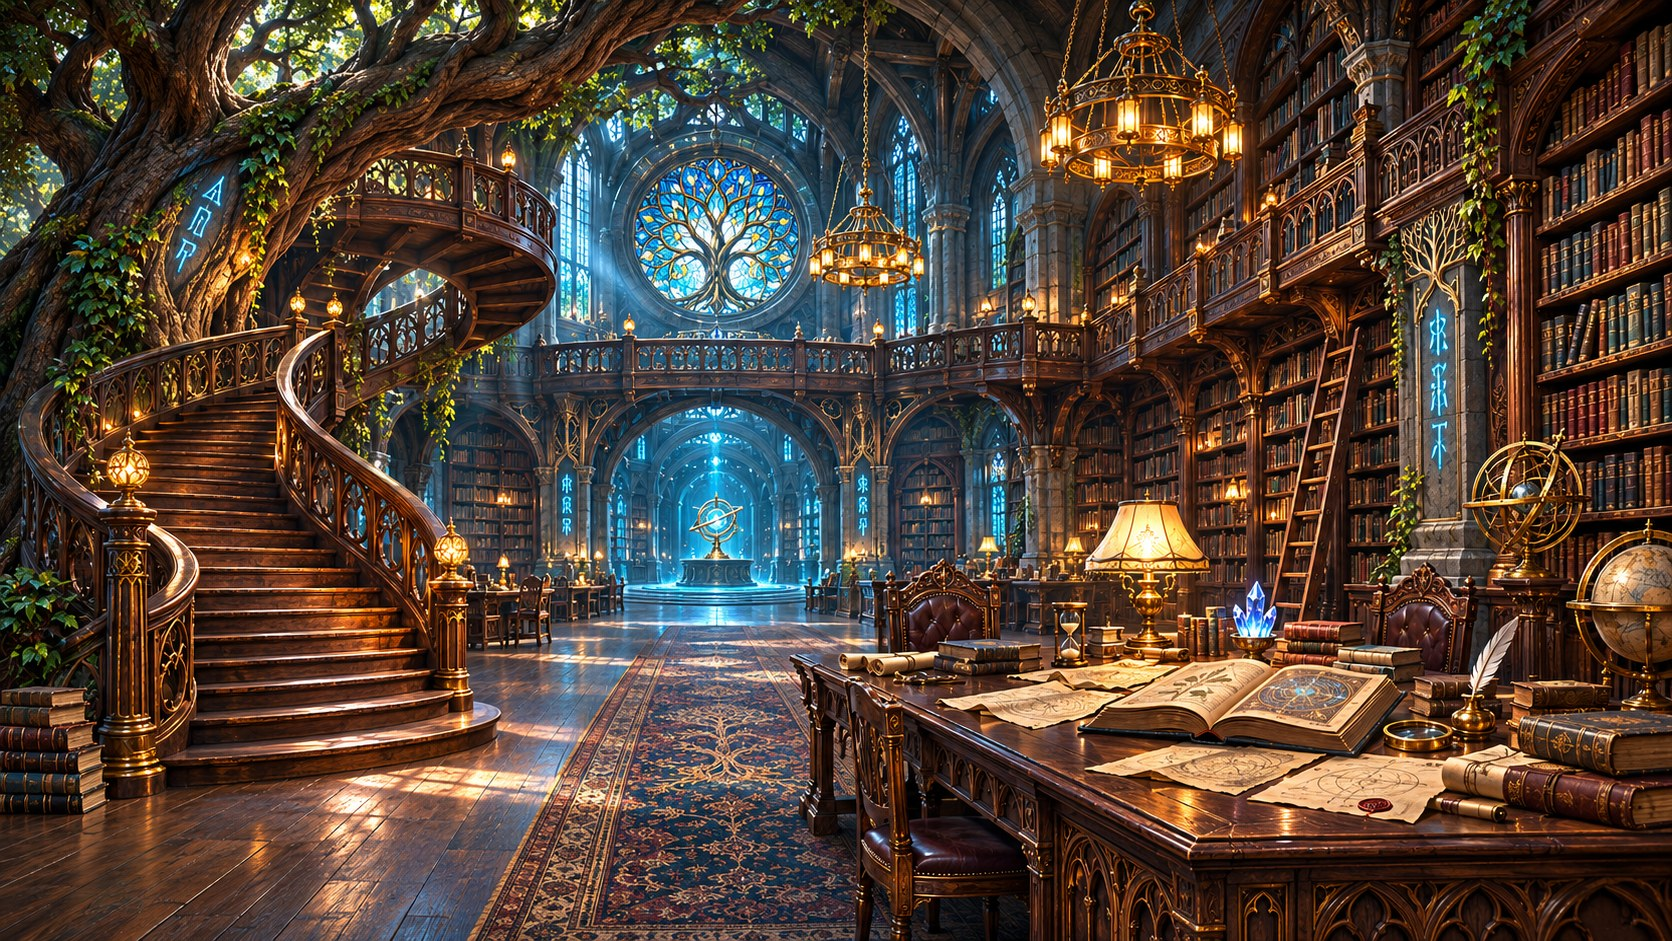
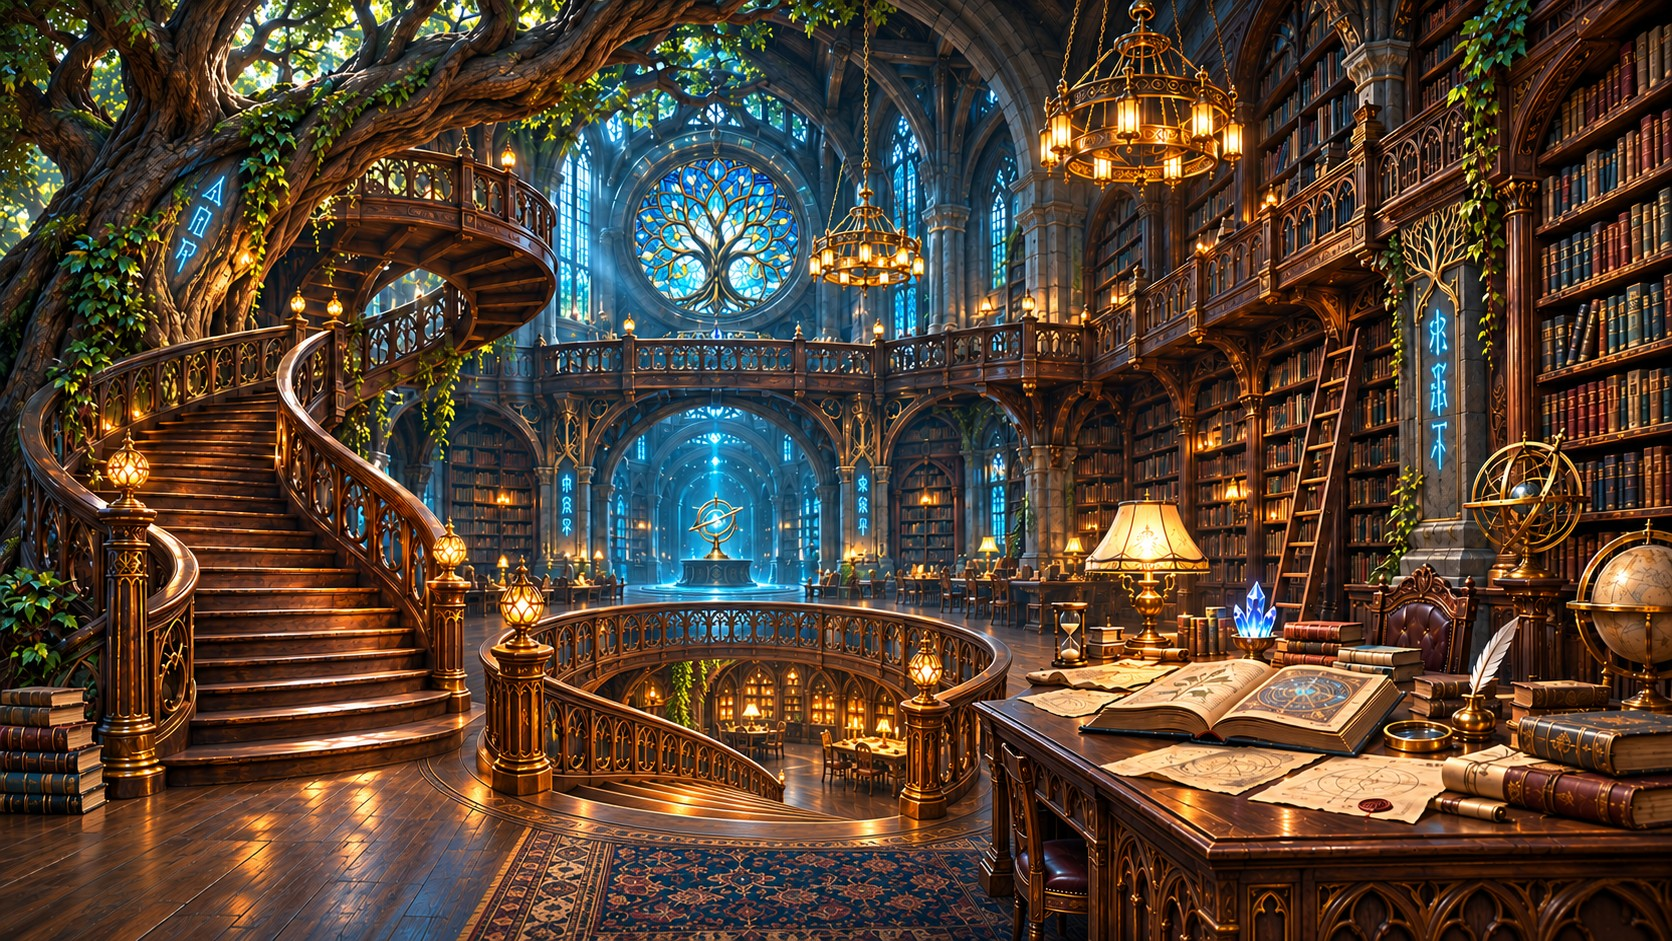
feat(home): new second-floor picture with a round stairwell; clickable along its outline
Claude-Session: https://claude.ai/code/session_01DfVYttBvCAdgqZi4Ho1Khn

diff --git a/frontend/src/features/home/config.ts b/frontend/src/features/home/config.ts
@@ -34,20 +34,24 @@ export interface Hotspot {
   shape?: ReadonlyArray<readonly [number, number]>;
 }
 
-/** Pixel size of the picture of the signed room, in which the outlines below were traced. */
+/** Pixel size of the pictures, in which the outlines below were traced. */
 const LIBRARY_PX = { w: 1850, h: 850 } as const;
+const UPSTAIRS_PX = { w: 1672, h: 941 } as const;
 
 /** Turn an outline traced in picture pixels into a hotspot box plus `shape` (fractions of the picture). */
-function traced(points: ReadonlyArray<readonly [number, number]>): Pick<Hotspot, "left" | "top" | "width" | "height" | "shape"> {
+function traced(
+  points: ReadonlyArray<readonly [number, number]>,
+  px: { readonly w: number; readonly h: number } = LIBRARY_PX,
+): Pick<Hotspot, "left" | "top" | "width" | "height" | "shape"> {
   const xs = points.map(([x]) => x);
   const ys = points.map(([, y]) => y);
   const [x0, x1, y0, y1] = [Math.min(...xs), Math.max(...xs), Math.min(...ys), Math.max(...ys)];
   return {
-    left: x0 / LIBRARY_PX.w,
-    top: y0 / LIBRARY_PX.h,
-    width: (x1 - x0) / LIBRARY_PX.w,
-    height: (y1 - y0) / LIBRARY_PX.h,
-    shape: points.map(([x, y]) => [x / LIBRARY_PX.w, y / LIBRARY_PX.h] as const),
+    left: x0 / px.w,
+    top: y0 / px.h,
+    width: (x1 - x0) / px.w,
+    height: (y1 - y0) / px.h,
+    shape: points.map(([x, y]) => [x / px.w, y / px.h] as const),
   };
 }
 
@@ -123,7 +127,7 @@ const LIBRARY: Room = {
   ]) },
 };
 
-// The second floor: the blue, magical library, with the same spiral staircase leading back down.
+// The second floor: the blue, magical library, with a round stairwell in the floor leading back down.
 const UPSTAIRS: Room = {
   id: "upstairs",
   background: "/sala-2.jpg",
@@ -133,9 +137,12 @@ const UPSTAIRS: Room = {
     { id: "far-right-bookcase", left: 0.86, top: 0.12, width: 0.07, height: 0.45, rotate: -4, skewY: -3 },
     { id: "gallery-bookcases", left: 0.73, top: 0.08, width: 0.1, height: 0.18, rotate: -4, skewY: -3 },
     { id: "back-left-alcove", left: 0.26, top: 0.45, width: 0.08, height: 0.15, rotate: 2, skewY: 1 },
-    { id: "desk-with-scrolls", left: 0.55, top: 0.7, width: 0.25, height: 0.12, rotate: 5, skewY: 3 },
+    { id: "desk-with-scrolls", left: 0.6, top: 0.7, width: 0.23, height: 0.13, rotate: 5, skewY: 3 },
   ],
-  portals: [{ id: "staircase-down", to: "library", label: "Descer ao andar de baixo", glow: true, left: 0.1, top: 0.42, width: 0.2, height: 0.38, rotate: 0, skewY: 0 }],
+  portals: [
+    // the round stairwell with its balustrade, in the floor: the way back down (clickable along its outline, traced on the 1672x941 picture)
+    { id: "staircase-down", to: "library", label: "Descer ao andar de baixo", glow: true, rotate: 0, skewY: 0, ...traced([[520, 590], [560, 603], [640, 603], [740, 603], [840, 606], [940, 612], [982, 645], [990, 690], [965, 745], [952, 790], [925, 815], [850, 822], [740, 820], [640, 812], [560, 795], [500, 775], [480, 740], [478, 690], [490, 640]], UPSTAIRS_PX) },
+  ],
 };
 
 export const HOME_ROOMS: Readonly<Record<RoomId, Room>> = { library: LIBRARY, upstairs: UPSTAIRS };

diff --git a/frontend/src/features/home/config.test.ts b/frontend/src/features/home/config.test.ts
@@ -98,6 +98,6 @@ describe("outlines", () => {
         expect(y).toBeLessThanOrEqual(100.5);
       }
     }
-    expect(shapePoints(HOME_ROOMS.upstairs.portals[0]!)).toBeNull();
+    expect(shapePoints(HOME_ROOMS.upstairs.shelves[0]!)).toBeNull();
   });
 });
